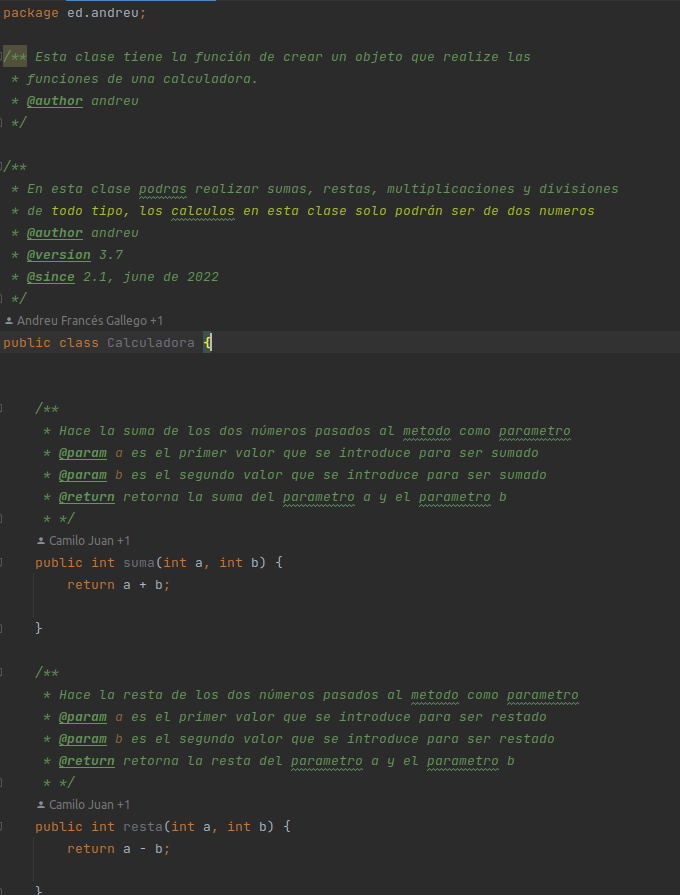
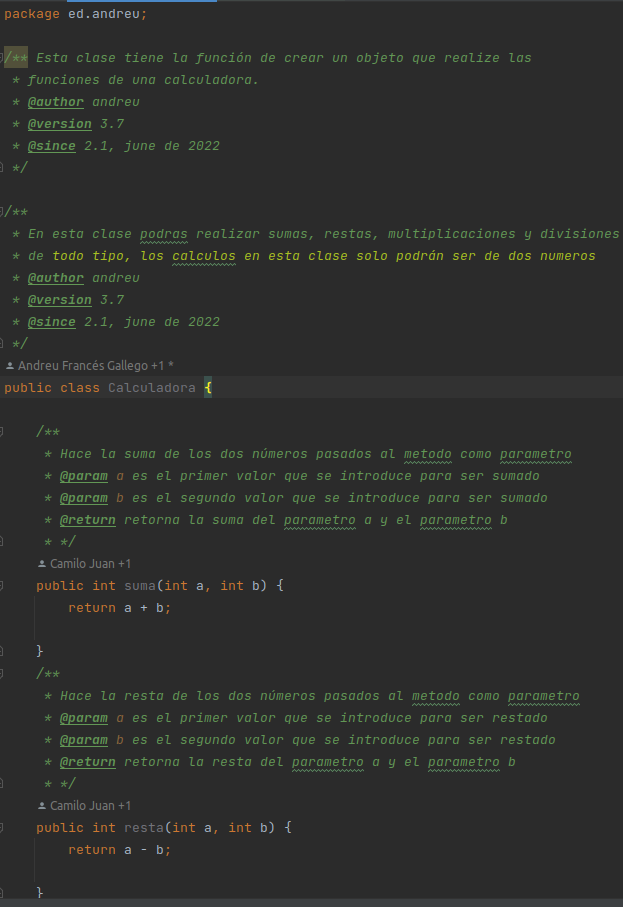
arreglar warnings

diff --git a/src/main/java/ed/andreu/Calculadora.java b/src/main/java/ed/andreu/Calculadora.java
@@ -15,7 +15,11 @@ package ed.andreu;
  * @since 2.1, june de 2022
  */
 public class Calculadora {
-
+	/**
+	 * Constructor de la clase calculadora
+	 * */
+	public Calculadora() {
+	}
 
 	/**
 	 * Hace la suma de los dos números pasados al metodo como parametro
@@ -27,7 +31,6 @@ public class Calculadora {
 		return a + b;
 
 	}
-
 	/**
 	 * Hace la resta de los dos números pasados al metodo como parametro
 	 * @param a es el primer valor que se introduce para ser restado

diff --git a/src/test/java/es/cipfpbatoi/ed/practica2_ud6/AppTest.java b/src/test/java/es/cipfpbatoi/ed/practica2_ud6/AppTest.java
@@ -7,8 +7,15 @@ import org.junit.Test;
 /**
  * Unit test for simple App.
  */
-public class AppTest 
+public class AppTest
 {
+    /**
+     * Constructor de la clase calculadora
+     * */
+    public AppTest() {
+    }
+
+
     /**
      * Rigorous Test :-)
      */
